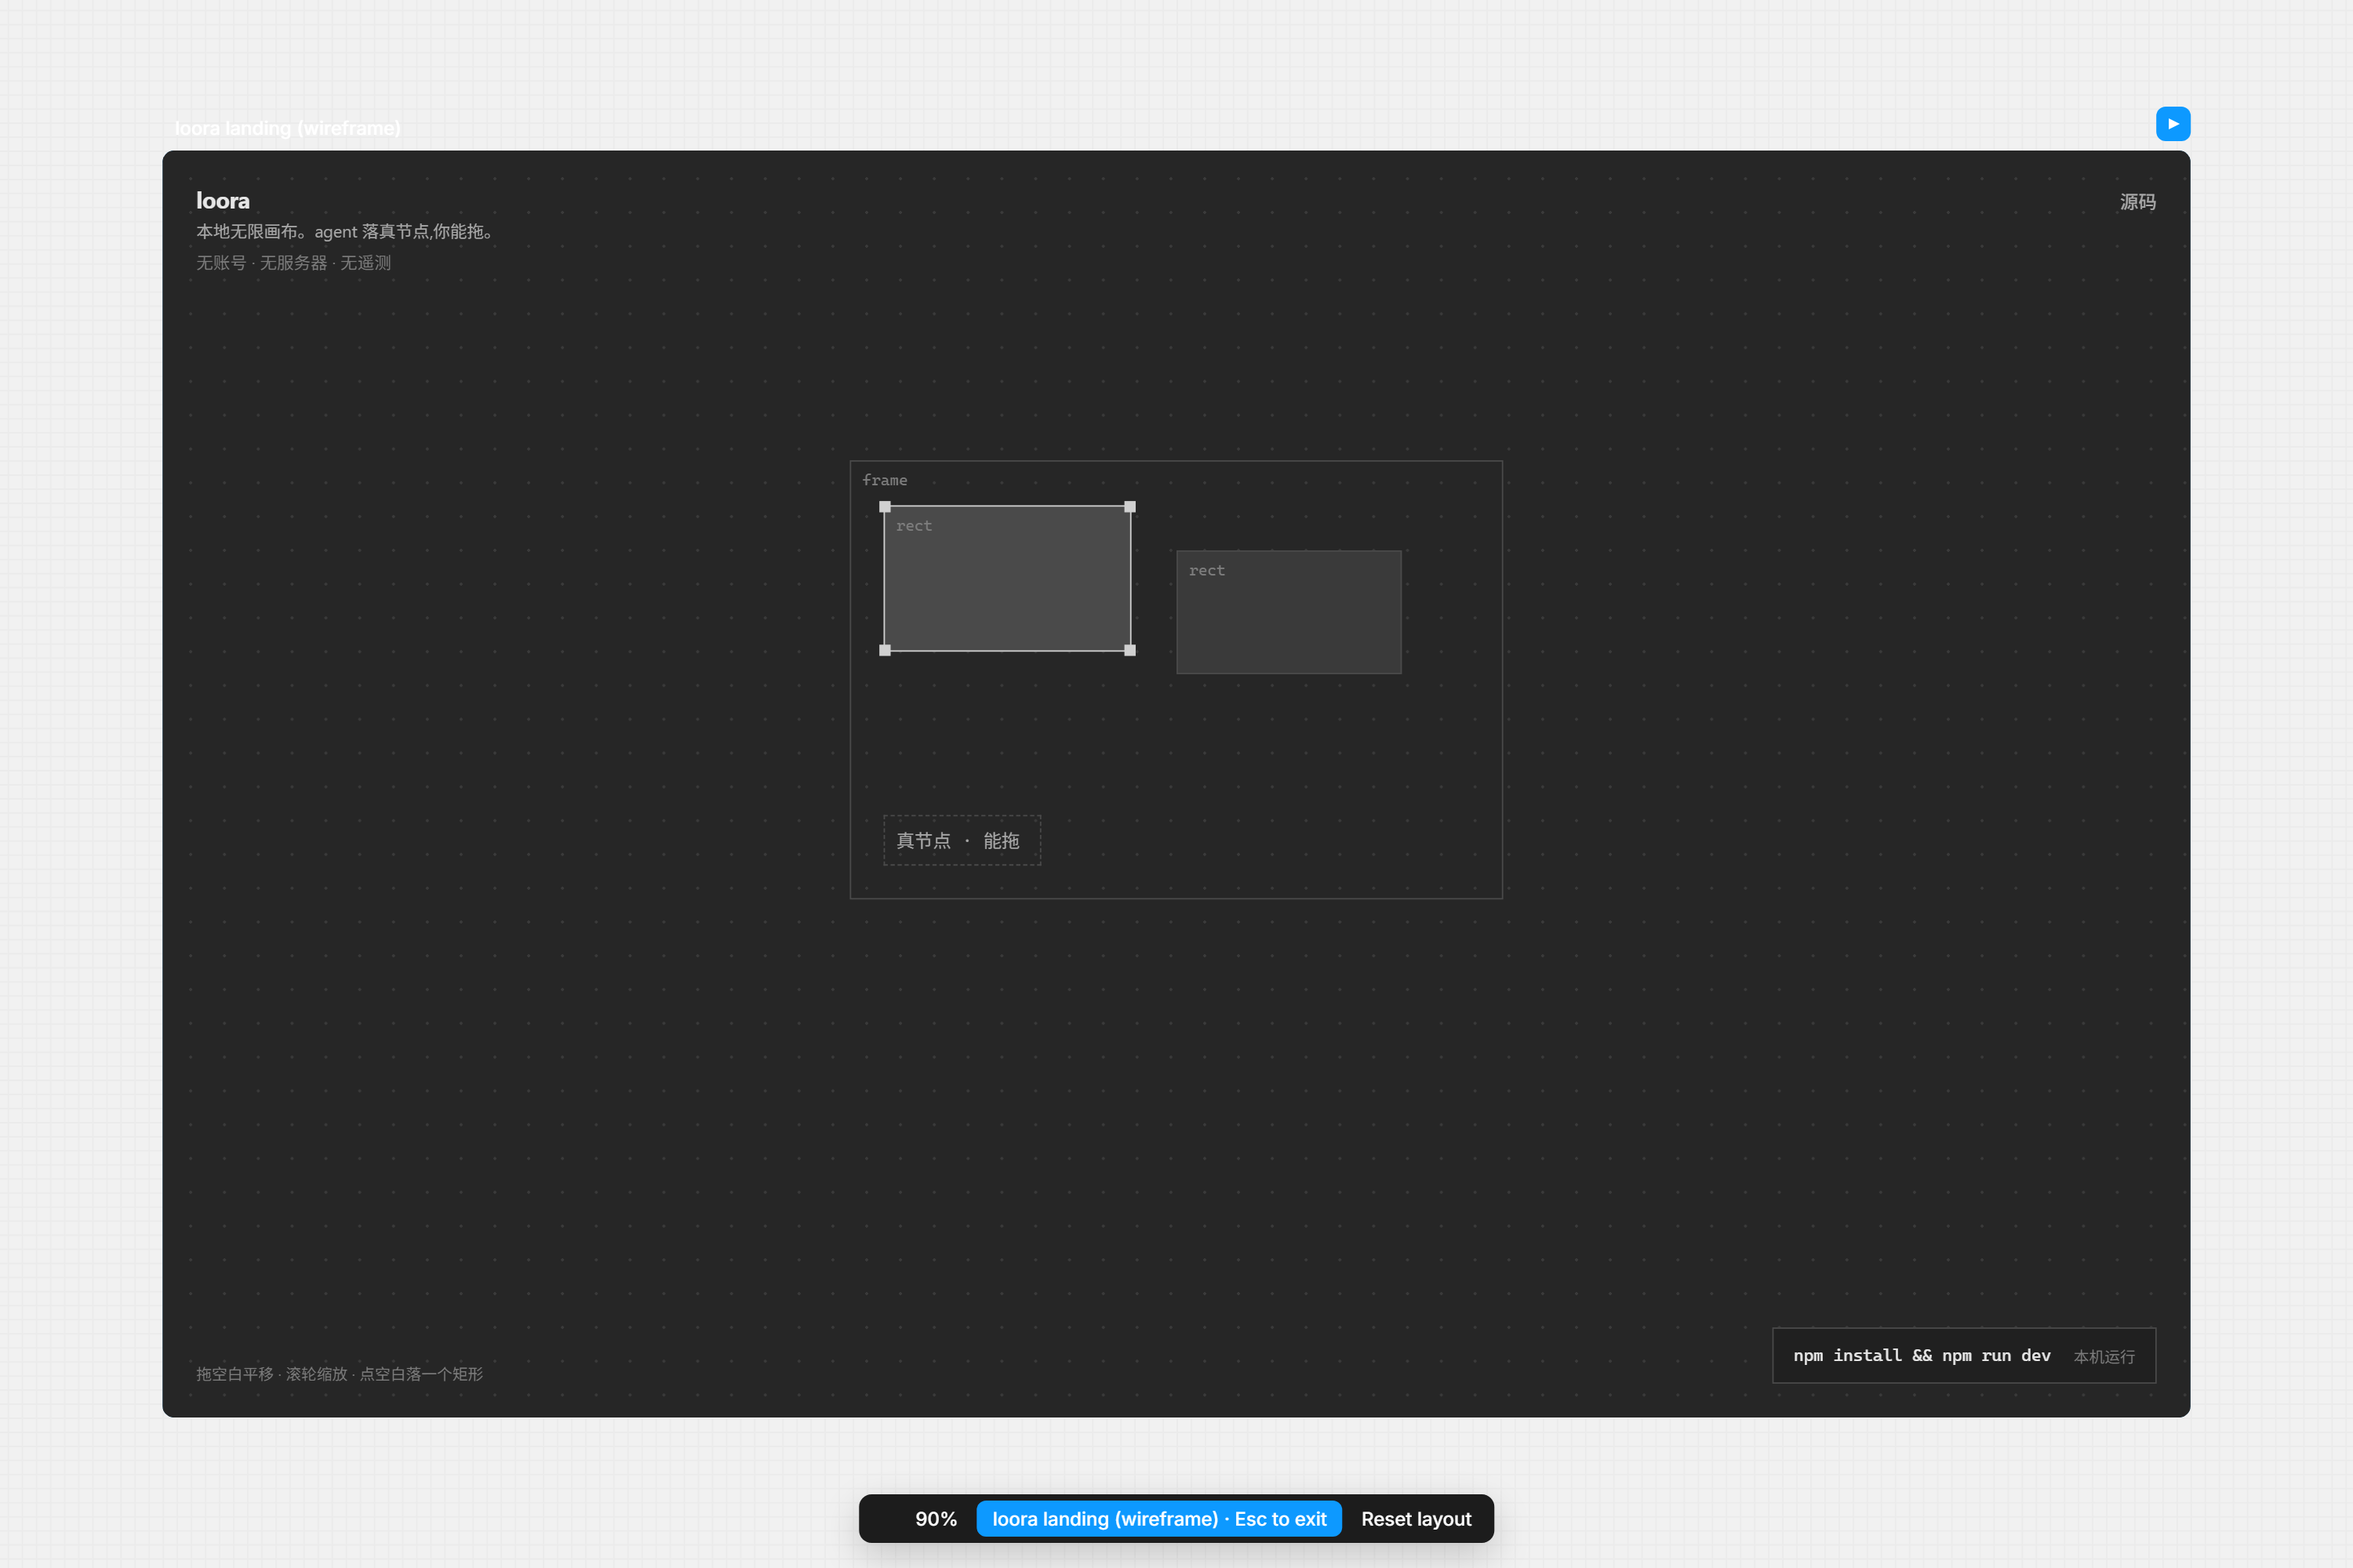
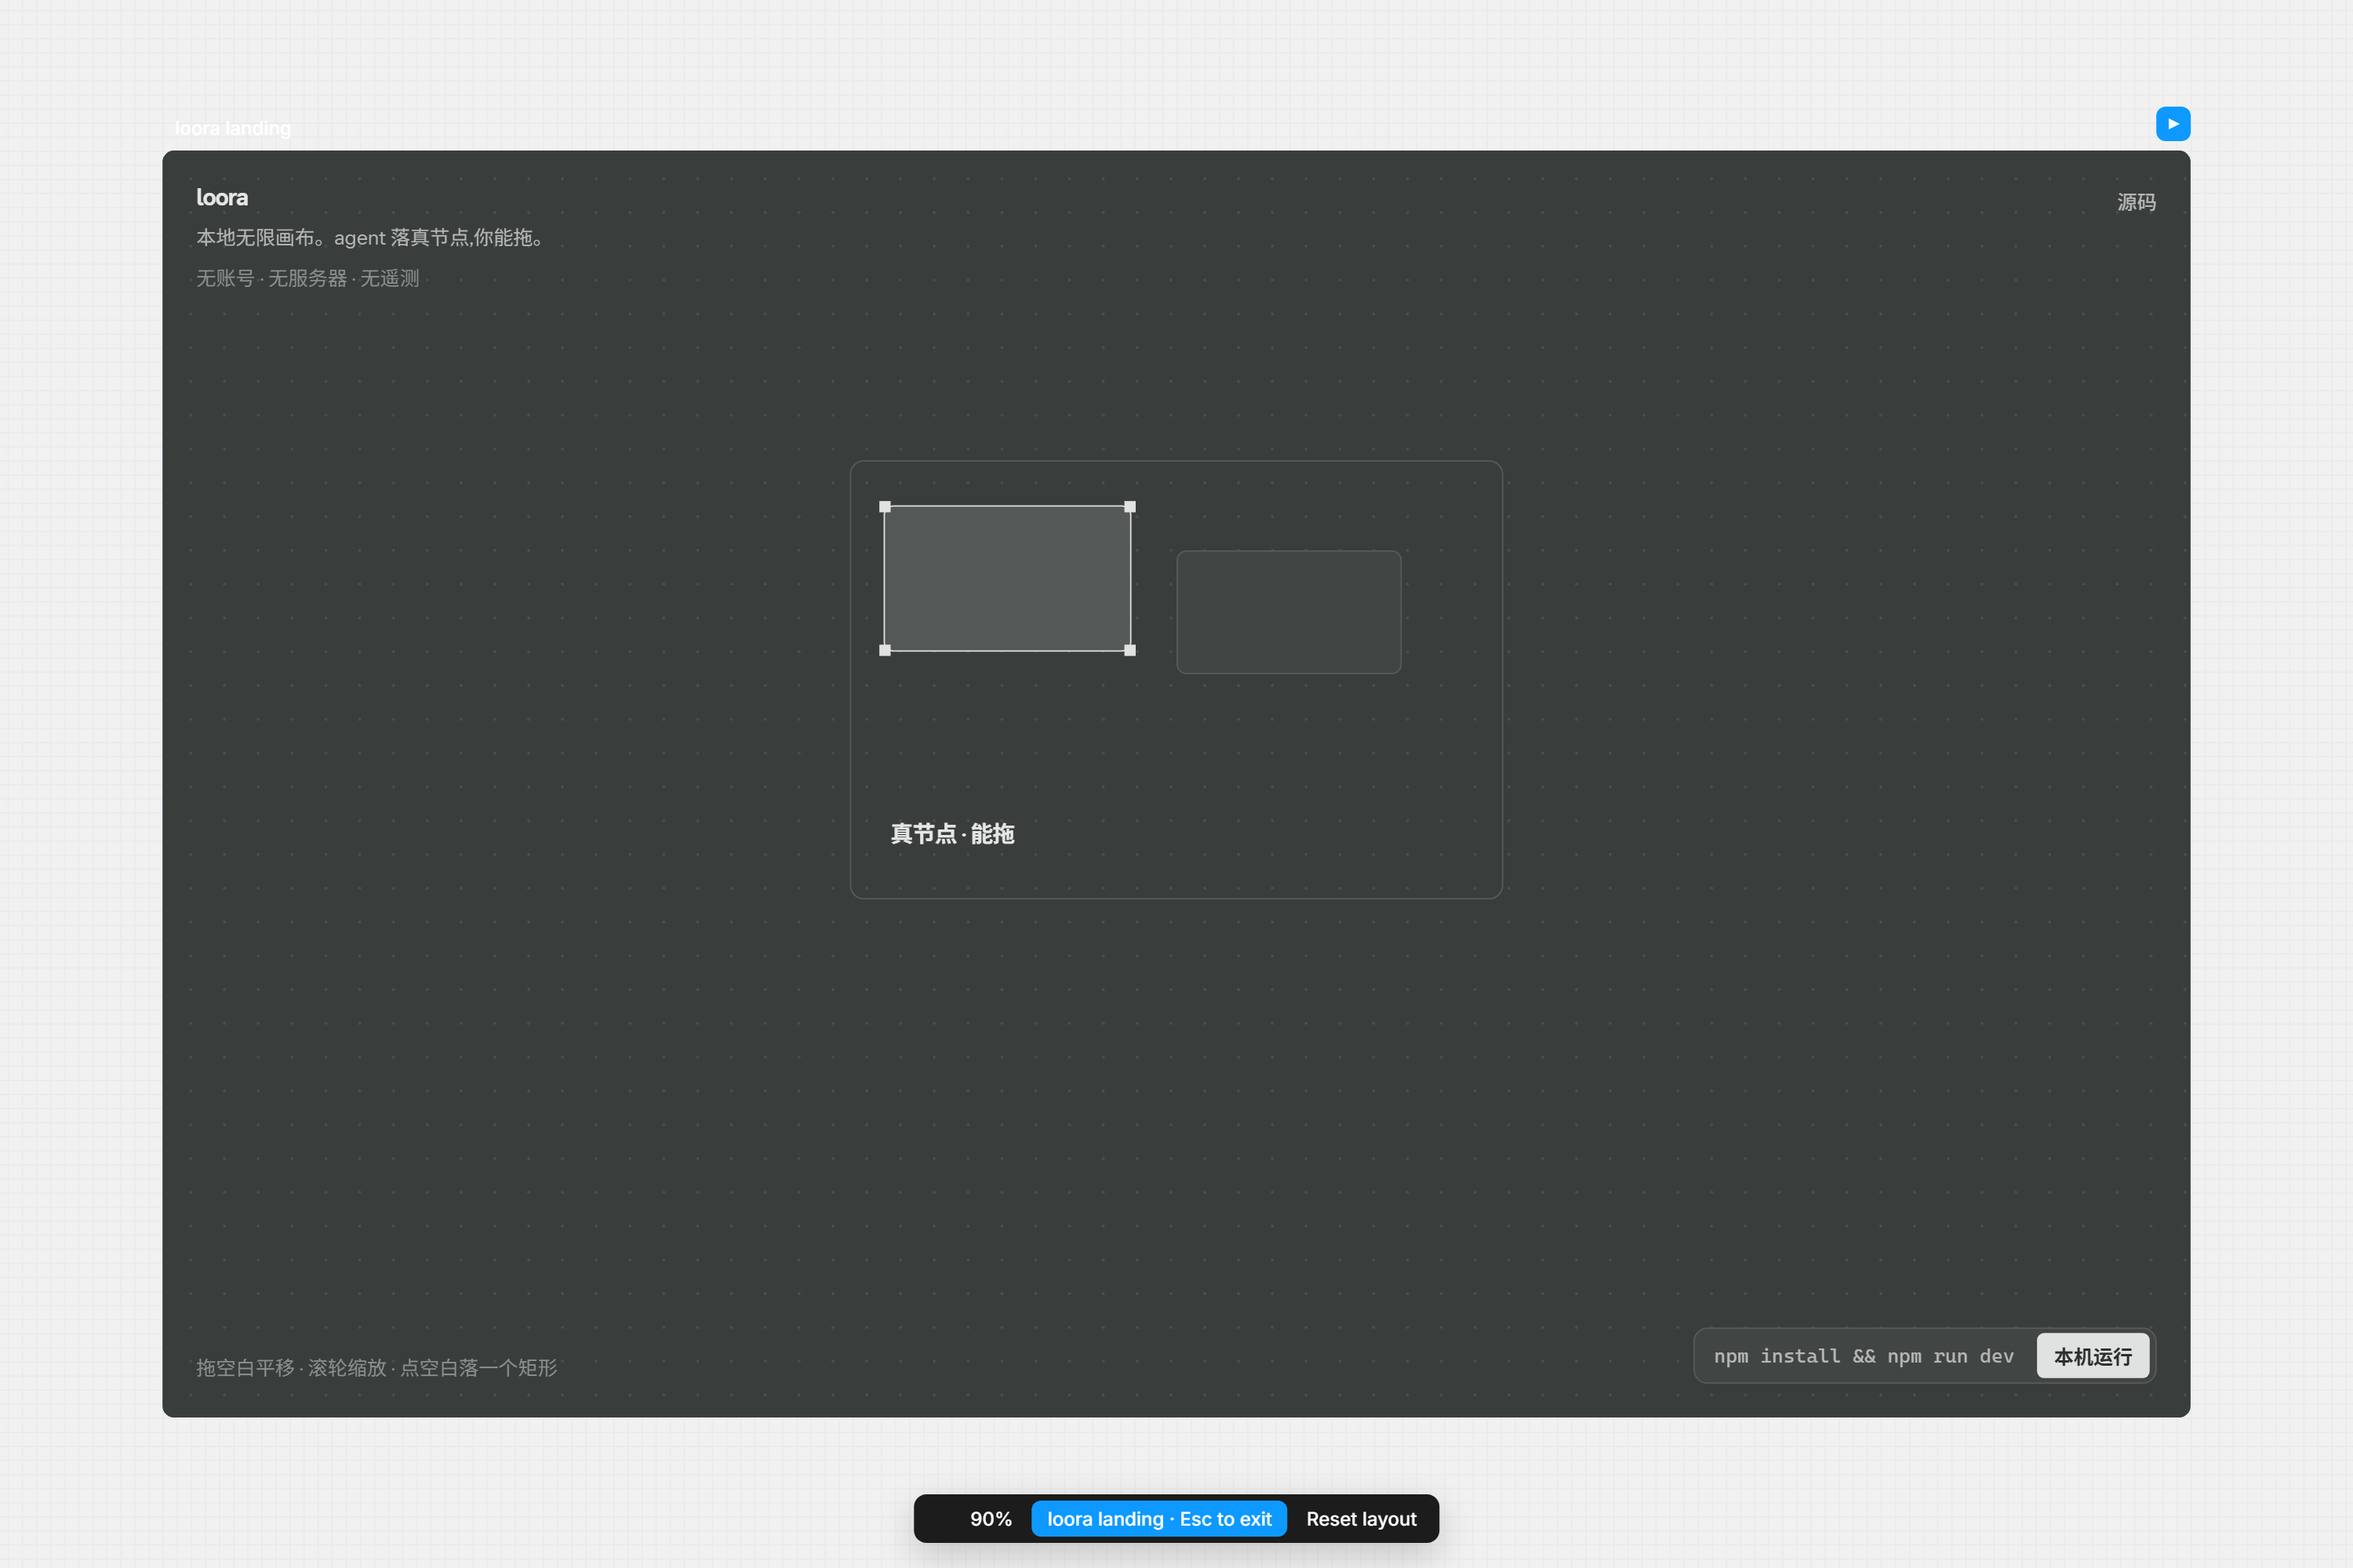
feat(design-lab): loora-landing step 5 first draft, partial — direction A graphite skin on the locked wireframe
Her first-draft pass after the wireframe gate: product studio tokens (#393d3c family, one
achromatic accent on the CTA and the selection handles), Merrion Sans from the lab's own
font set, frame/rect labels cut, command bar spacing 10/5, stage -> draft in the manifest.
Round stopped early: the pi-automode fast classifier (deepseek-v4-pro) returned
402 Insufficient Balance on every Edit/Write/Bash after ~13:49, so she halted per the
stop rule. Still owed: seed-cluster rebalance, draft-notes.md, project iteration.
tsc -b tsconfig.app.json --noEmit exit 0 (verified independently).

diff --git a/packages/design-lab/src/screens/loora-landing/styles/wireframe.css b/packages/design-lab/src/screens/loora-landing/styles/wireframe.css
@@ -1,20 +1,35 @@
-/* loora landing — wireframe v2 look-pass. Gray, size+weight, zero polish.
-   Ground IS the canvas. HUD is small type on the edge. */
+/* loora landing — step 5 first draft (direction A · 画室石墨)
+   Structure unchanged: the page IS the canvas; HUD stays four-corner type.
+   Tokens: product studio [measured · research.md §0]. No invented hex. */
 
-:root {
-  --wf-ground: #262626;
-  --wf-dot: #3a3a3a;
-  --wf-node: #3a3a3a;
-  --wf-node-frame: transparent;
-  --wf-selected: #4a4a4a;
-  --wf-hairline: #4a4a4a;
-  --wf-handle: #d0d0d0;
-  --wf-text: #e6e6e6;
-  --wf-text-2: #a8a8a8;
-  --wf-text-3: #7d7d7d;
-  --wf-cmd-bg: #202020;
-  --wf-font: "Segoe UI", system-ui, -apple-system, sans-serif;
-  --wf-mono: ui-monospace, "Cascadia Mono", "SF Mono", Menlo, monospace;
+@font-face {
+  font-family: "Merrion Sans";
+  src:
+    url("/fonts/merrion-sans/regular.woff2") format("woff2"),
+    url("/fonts/merrion-sans/regular.woff") format("woff");
+  font-weight: 400;
+  font-style: normal;
+  font-display: swap;
+}
+
+@font-face {
+  font-family: "Merrion Sans";
+  src:
+    url("/fonts/merrion-sans/semibold.woff2") format("woff2"),
+    url("/fonts/merrion-sans/semibold.woff") format("woff");
+  font-weight: 600;
+  font-style: normal;
+  font-display: swap;
+}
+
+@font-face {
+  font-family: "Merrion Sans";
+  src:
+    url("/fonts/merrion-sans/bold.woff2") format("woff2"),
+    url("/fonts/merrion-sans/bold.woff") format("woff");
+  font-weight: 700;
+  font-style: normal;
+  font-display: swap;
 }
 
 .sr-only {
@@ -30,13 +45,33 @@
 }
 
 .wf-page {
+  --ll-bg: #393d3c;
+  --ll-panel: #414544;
+  --ll-inset: #4a4e4d;
+  --ll-float: #545857;
+  --ll-line: #575c5a;
+  --ll-text: #e5e6e6;
+  --ll-text-2: #b4b7b6;
+  --ll-text-3: #8b8f8d;
+  --ll-accent: #dfe2e1;
+  --ll-accent-fg: #2b2f2e;
+  --ll-radius-sm: 5px;
+  --ll-radius: 7px;
+  --ll-radius-lg: 10px;
+  --ll-ease: cubic-bezier(0.2, 0, 0, 1);
+  --ll-dur: 120ms;
+  --ll-dur-2: 190ms;
+  --ll-font: "Merrion Sans", system-ui, sans-serif;
+  --ll-mono: ui-monospace, "Cascadia Mono", "SF Mono", Menlo, monospace;
+
   position: relative;
   width: 100%;
   min-height: 100%;
   overflow: hidden;
-  background: var(--wf-ground);
-  color: var(--wf-text);
-  font-family: var(--wf-font);
+  background: var(--ll-bg);
+  color: var(--ll-text);
+  font-family: var(--ll-font);
+  -webkit-font-smoothing: antialiased;
   user-select: none;
 }
 
@@ -65,7 +100,7 @@
   top: -4000px;
   width: 10000px;
   height: 10000px;
-  background-image: radial-gradient(var(--wf-dot) 1px, transparent 1px);
+  background-image: radial-gradient(var(--ll-inset) 1px, transparent 1px);
   background-size: 24px 24px;
   pointer-events: none;
 }
@@ -73,52 +108,68 @@
 .wf-node {
   position: absolute;
   box-sizing: border-box;
-  background: var(--wf-node);
-  border: 1px solid var(--wf-hairline);
+  background: var(--ll-panel);
+  border: 1px solid var(--ll-line);
+  border-radius: var(--ll-radius);
 }
 
 .wf-node-frame {
-  background: var(--wf-node-frame);
+  background: transparent;
+  border-radius: var(--ll-radius-lg);
+}
+
+.wf-node-frame > .wf-caption,
+.wf-node-rect > .wf-caption {
+  display: none;
 }
 
 .wf-node-text {
   display: flex;
   align-items: center;
   background: transparent;
-  border-style: dashed;
+  border-color: transparent;
+  border-radius: 0;
 }
 
 .wf-node.is-selected {
-  border-color: var(--wf-handle);
+  border-color: var(--ll-accent);
 }
 
 .wf-node-rect.is-selected {
-  background: var(--wf-selected);
+  background: var(--ll-float);
+}
+
+.wf-node-text.is-selected {
+  border-color: transparent;
 }
 
 .wf-caption {
   position: absolute;
   left: 8px;
   top: 8px;
-  font-family: var(--wf-mono);
+  font-family: var(--ll-mono);
   font-size: 11px;
   line-height: 1;
-  color: var(--wf-text-3);
+  letter-spacing: 0.02em;
+  color: var(--ll-text-3);
   pointer-events: none;
 }
 
 .wf-node-text .wf-caption {
   position: static;
-  padding: 0 8px;
-  font-size: 13px;
-  color: var(--wf-text-2);
+  padding: 0 4px;
+  font-family: var(--ll-font);
+  font-size: 16px;
+  font-weight: 600;
+  letter-spacing: -0.02em;
+  color: var(--ll-text);
 }
 
 .wf-handle {
   position: absolute;
   width: 8px;
   height: 8px;
-  background: var(--wf-handle);
+  background: var(--ll-accent);
   box-sizing: border-box;
   pointer-events: auto;
   z-index: 1;
@@ -160,41 +211,57 @@
   left: 24px;
   font-size: 16px;
   font-weight: 700;
-  letter-spacing: -0.2px;
+  letter-spacing: -0.04em;
+  color: var(--ll-text);
 }
 
 .wf-fact {
-  top: 48px;
+  top: 52px;
   left: 24px;
   width: 360px;
   margin: 0;
-  font-size: 12px;
+  font-size: 14px;
   font-weight: 400;
   line-height: 1.5;
-  color: var(--wf-text-2);
+  color: var(--ll-text-2);
+  text-wrap: pretty;
 }
 
 .wf-fact span {
   display: block;
-  margin-top: 4px;
-  color: var(--wf-text-3);
+  margin-top: 8px;
+  font-size: 14px;
+  color: var(--ll-text-3);
 }
 
 .wf-link {
   top: 26px;
   right: 24px;
-  font-size: 13px;
+  font-size: 14px;
   font-weight: 500;
-  color: var(--wf-text-2);
+  color: var(--ll-text-2);
   text-decoration: none;
+  transition:
+    color var(--ll-dur) var(--ll-ease);
+}
+
+.wf-link:hover,
+.wf-link:focus-visible {
+  color: var(--ll-text);
+}
+
+.wf-link:focus-visible {
+  outline: 1px solid var(--ll-accent);
+  outline-offset: 4px;
 }
 
 .wf-hint {
   left: 24px;
   bottom: 24px;
   margin: 0;
-  font-size: 11px;
-  color: var(--wf-text-3);
+  font-size: 14px;
+  line-height: 1.4;
+  color: var(--ll-text-3);
 }
 
 .wf-cmd {
@@ -205,24 +272,52 @@
   justify-content: space-between;
   gap: 16px;
   height: 40px;
-  padding: 0 14px;
-  background: var(--wf-cmd-bg);
-  border: 1px solid var(--wf-hairline);
+  padding: 4px 4px 4px 14px;
+  background: var(--ll-panel);
+  border: 1px solid var(--ll-line);
+  border-radius: var(--ll-radius-lg);
   color: inherit;
   font: inherit;
   cursor: pointer;
+  transition:
+    background-color var(--ll-dur) var(--ll-ease),
+    border-color var(--ll-dur) var(--ll-ease);
+}
+
+.wf-cmd:hover {
+  background: var(--ll-inset);
+}
+
+.wf-cmd:focus-visible {
+  outline: 1px solid var(--ll-accent);
+  outline-offset: 2px;
 }
 
 .wf-cmd code {
-  font-family: var(--wf-mono);
-  font-size: 12px;
-  color: var(--wf-text);
+  font-family: var(--ll-mono);
+  font-size: 14px;
+  color: var(--ll-text-2);
 }
 
 .wf-cmd span {
-  font-size: 11px;
-  color: var(--wf-text-3);
+  display: inline-flex;
+  align-items: center;
+  height: 32px;
+  padding: 0 12px;
+  border-radius: var(--ll-radius-sm);
+  background: var(--ll-accent);
+  font-size: 14px;
+  font-weight: 600;
+  color: var(--ll-accent-fg);
   white-space: nowrap;
+  transition:
+    background-color var(--ll-dur) var(--ll-ease),
+    color var(--ll-dur) var(--ll-ease);
+}
+
+.wf-cmd.is-copied span {
+  background: var(--ll-float);
+  color: var(--ll-text);
 }
 
 .wf-page.is-narrow .wf-mark {
@@ -251,4 +346,12 @@
   left: 16px;
   right: 16px;
   bottom: 16px;
+}
+
+@media (prefers-reduced-motion: reduce) {
+  .wf-link,
+  .wf-cmd,
+  .wf-cmd span {
+    transition-duration: 0.01ms;
+  }
 }

diff --git a/packages/design-lab/src/screens/loora-landing/screen.tsx b/packages/design-lab/src/screens/loora-landing/screen.tsx
@@ -3,14 +3,15 @@ import { useScreen } from "../../lab/screen-context";
 import LiveCanvas from "./canvas";
 import "./styles/wireframe.css";
 
-export const name = "loora landing (wireframe)";
+export const name = "loora landing";
 export const width = 1440;
 export const height = 900;
 export const position = { x: 3400, y: 0 };
 
 /*
- * Wireframe v2 after returned gate. The page is the canvas.
- * HUD is edge type. Look-pass 1 cut the leftover hero sentence.
+ * Step 5 first draft · direction A 画室石墨.
+ * Structure locked at the wireframe gate: the page is the live canvas;
+ * copy stays in the corners. This file only skins states (copied class).
  */
 
 const CMD = "npm install && npm run dev";
@@ -56,7 +57,12 @@ export default function LooraLandingWireframe() {
         拖空白平移 · 滚轮缩放 · 点空白落一个矩形
         {active ? "" : " · 双击画面进入"}
       </p>
-      <button type="button" className="wf-cmd" data-hud onClick={onRun}>
+      <button
+        type="button"
+        className={copied ? "wf-cmd is-copied" : "wf-cmd"}
+        data-hud
+        onClick={onRun}
+      >
         <code>{CMD}</code>
         <span>{copied ? "已复制" : "本机运行"}</span>
       </button>

diff --git a/packages/design-lab/src/screens/loora-landing/canvas.tsx b/packages/design-lab/src/screens/loora-landing/canvas.tsx
@@ -54,7 +54,7 @@ const SEED: CanvasNode[] = [
   { id: "n-frame", kind: "frame", x: 488, y: 220, w: 464, h: 312, label: "frame" },
   { id: "n-rect-a", kind: "rect", x: 512, y: 252, w: 176, h: 104, label: "rect" },
   { id: "n-rect-b", kind: "rect", x: 720, y: 284, w: 160, h: 88, label: "rect" },
-  { id: "n-text", kind: "text", x: 512, y: 472, w: 112, h: 36, label: "真节点 · 能拖" },
+  { id: "n-text", kind: "text", x: 512, y: 472, w: 132, h: 28, label: "真节点 · 能拖" },
 ];
 
 let seq = 0;
